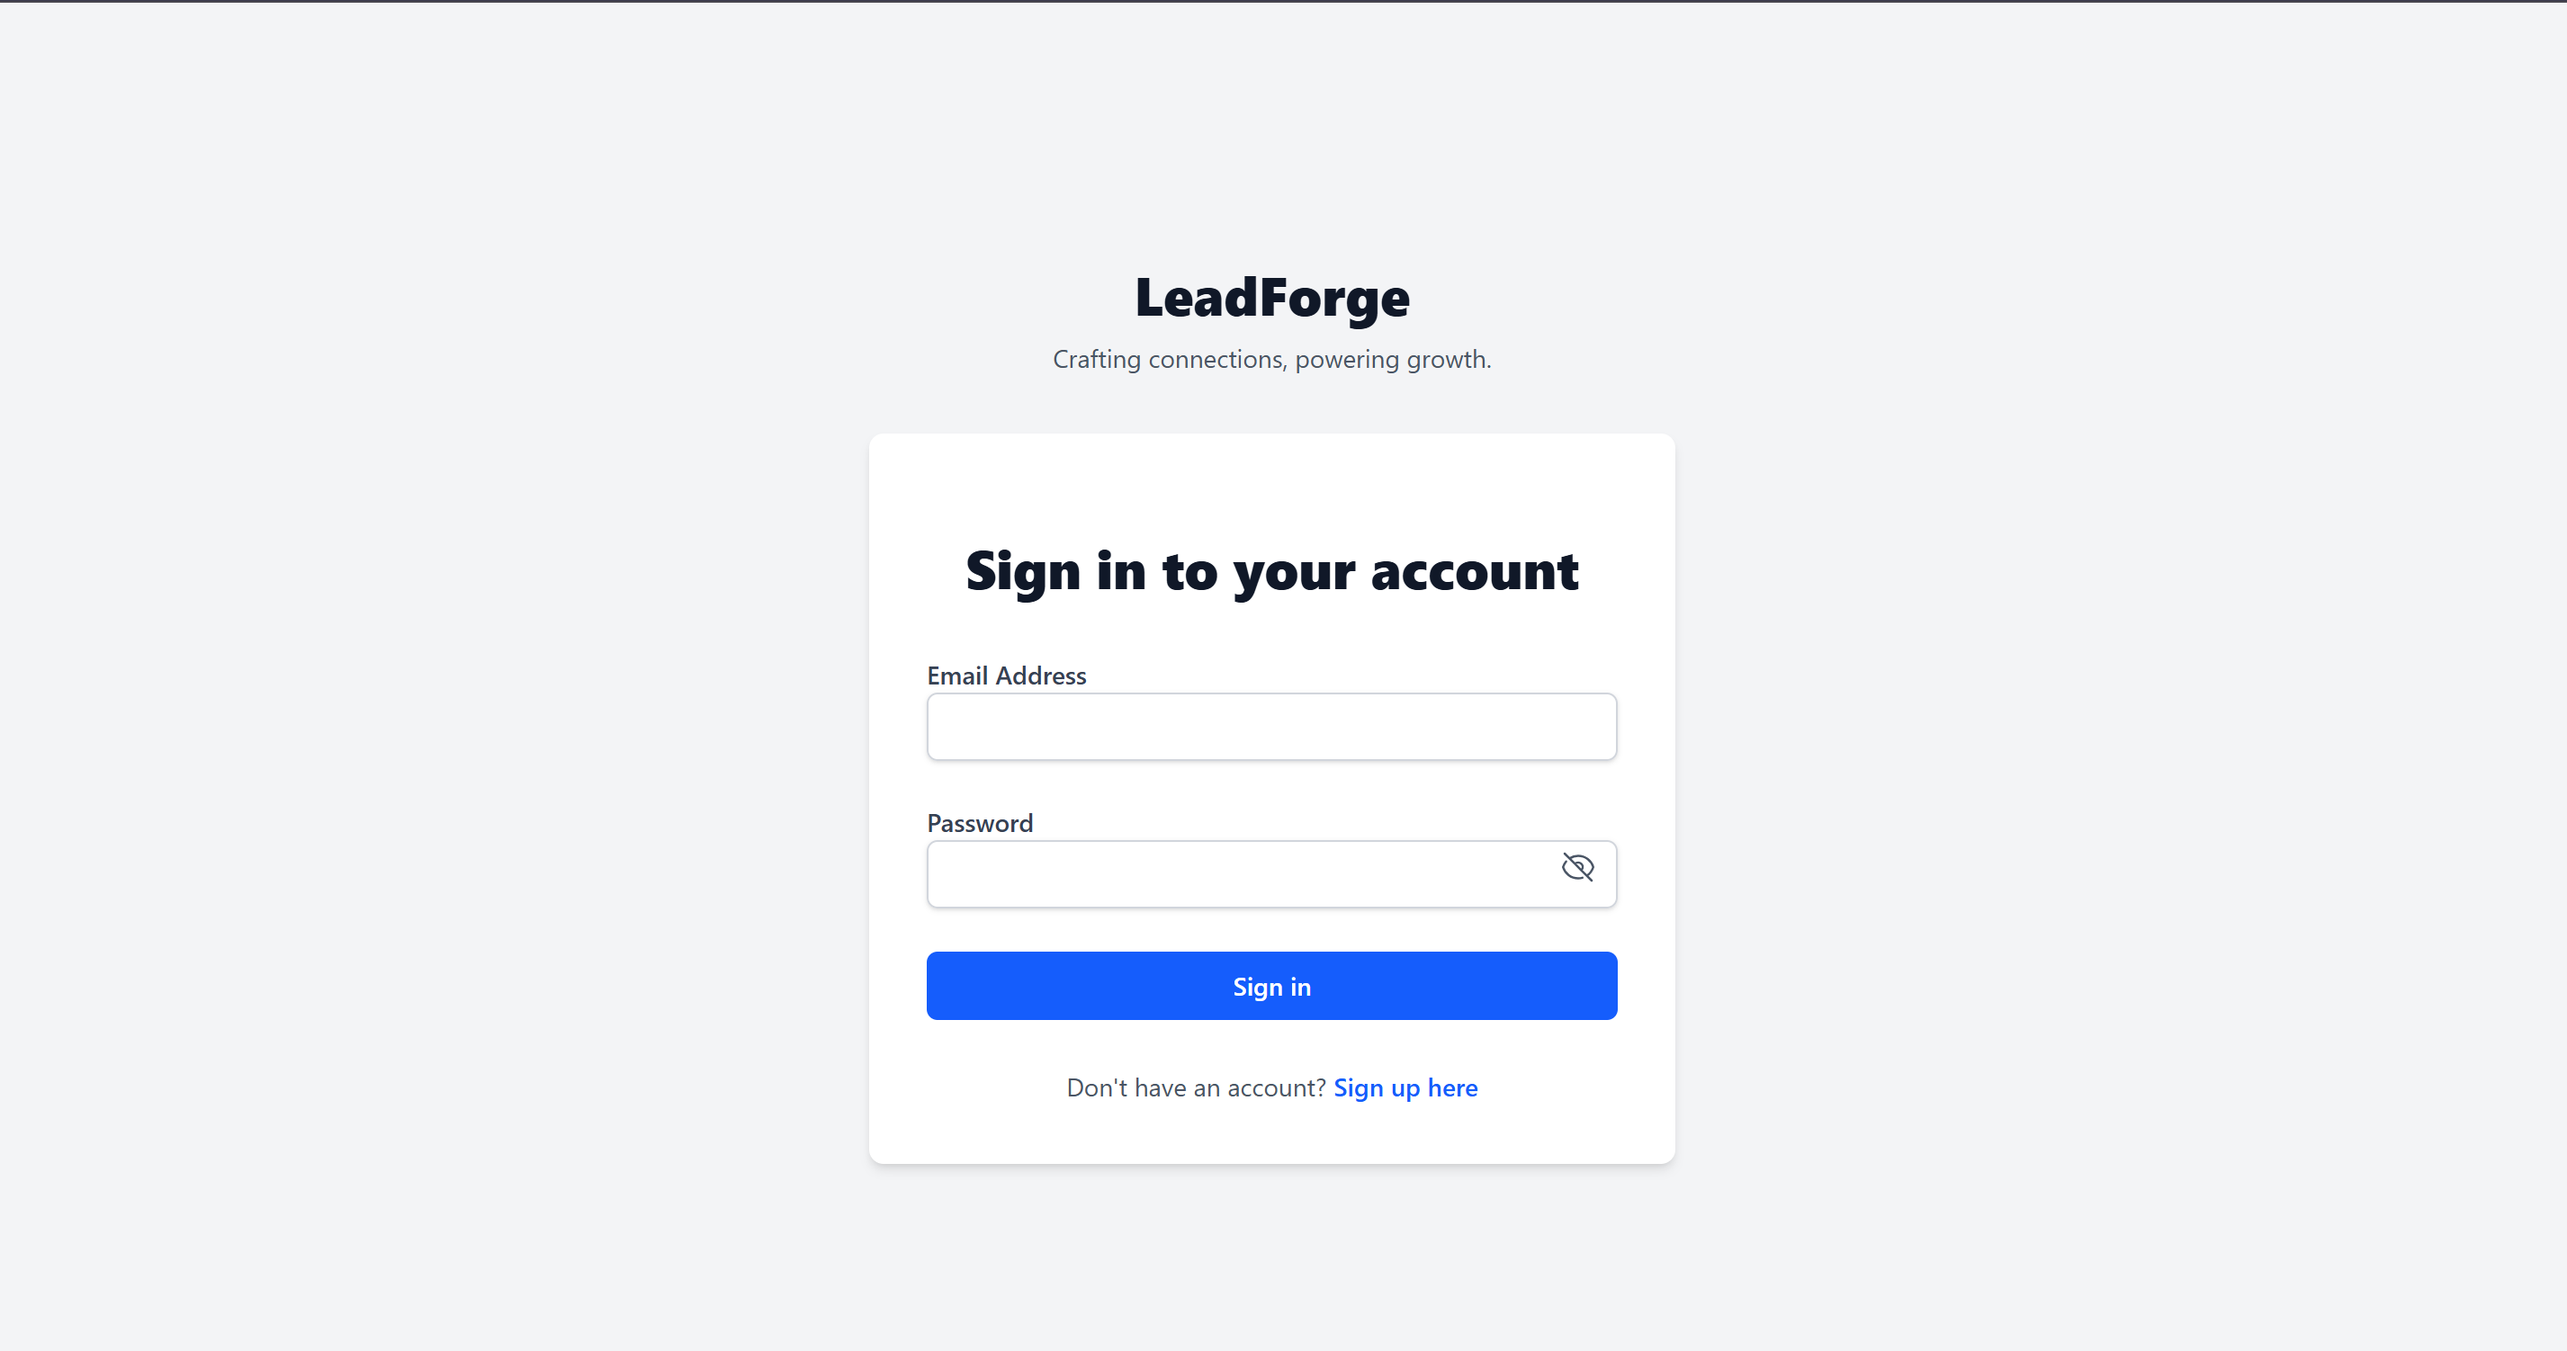
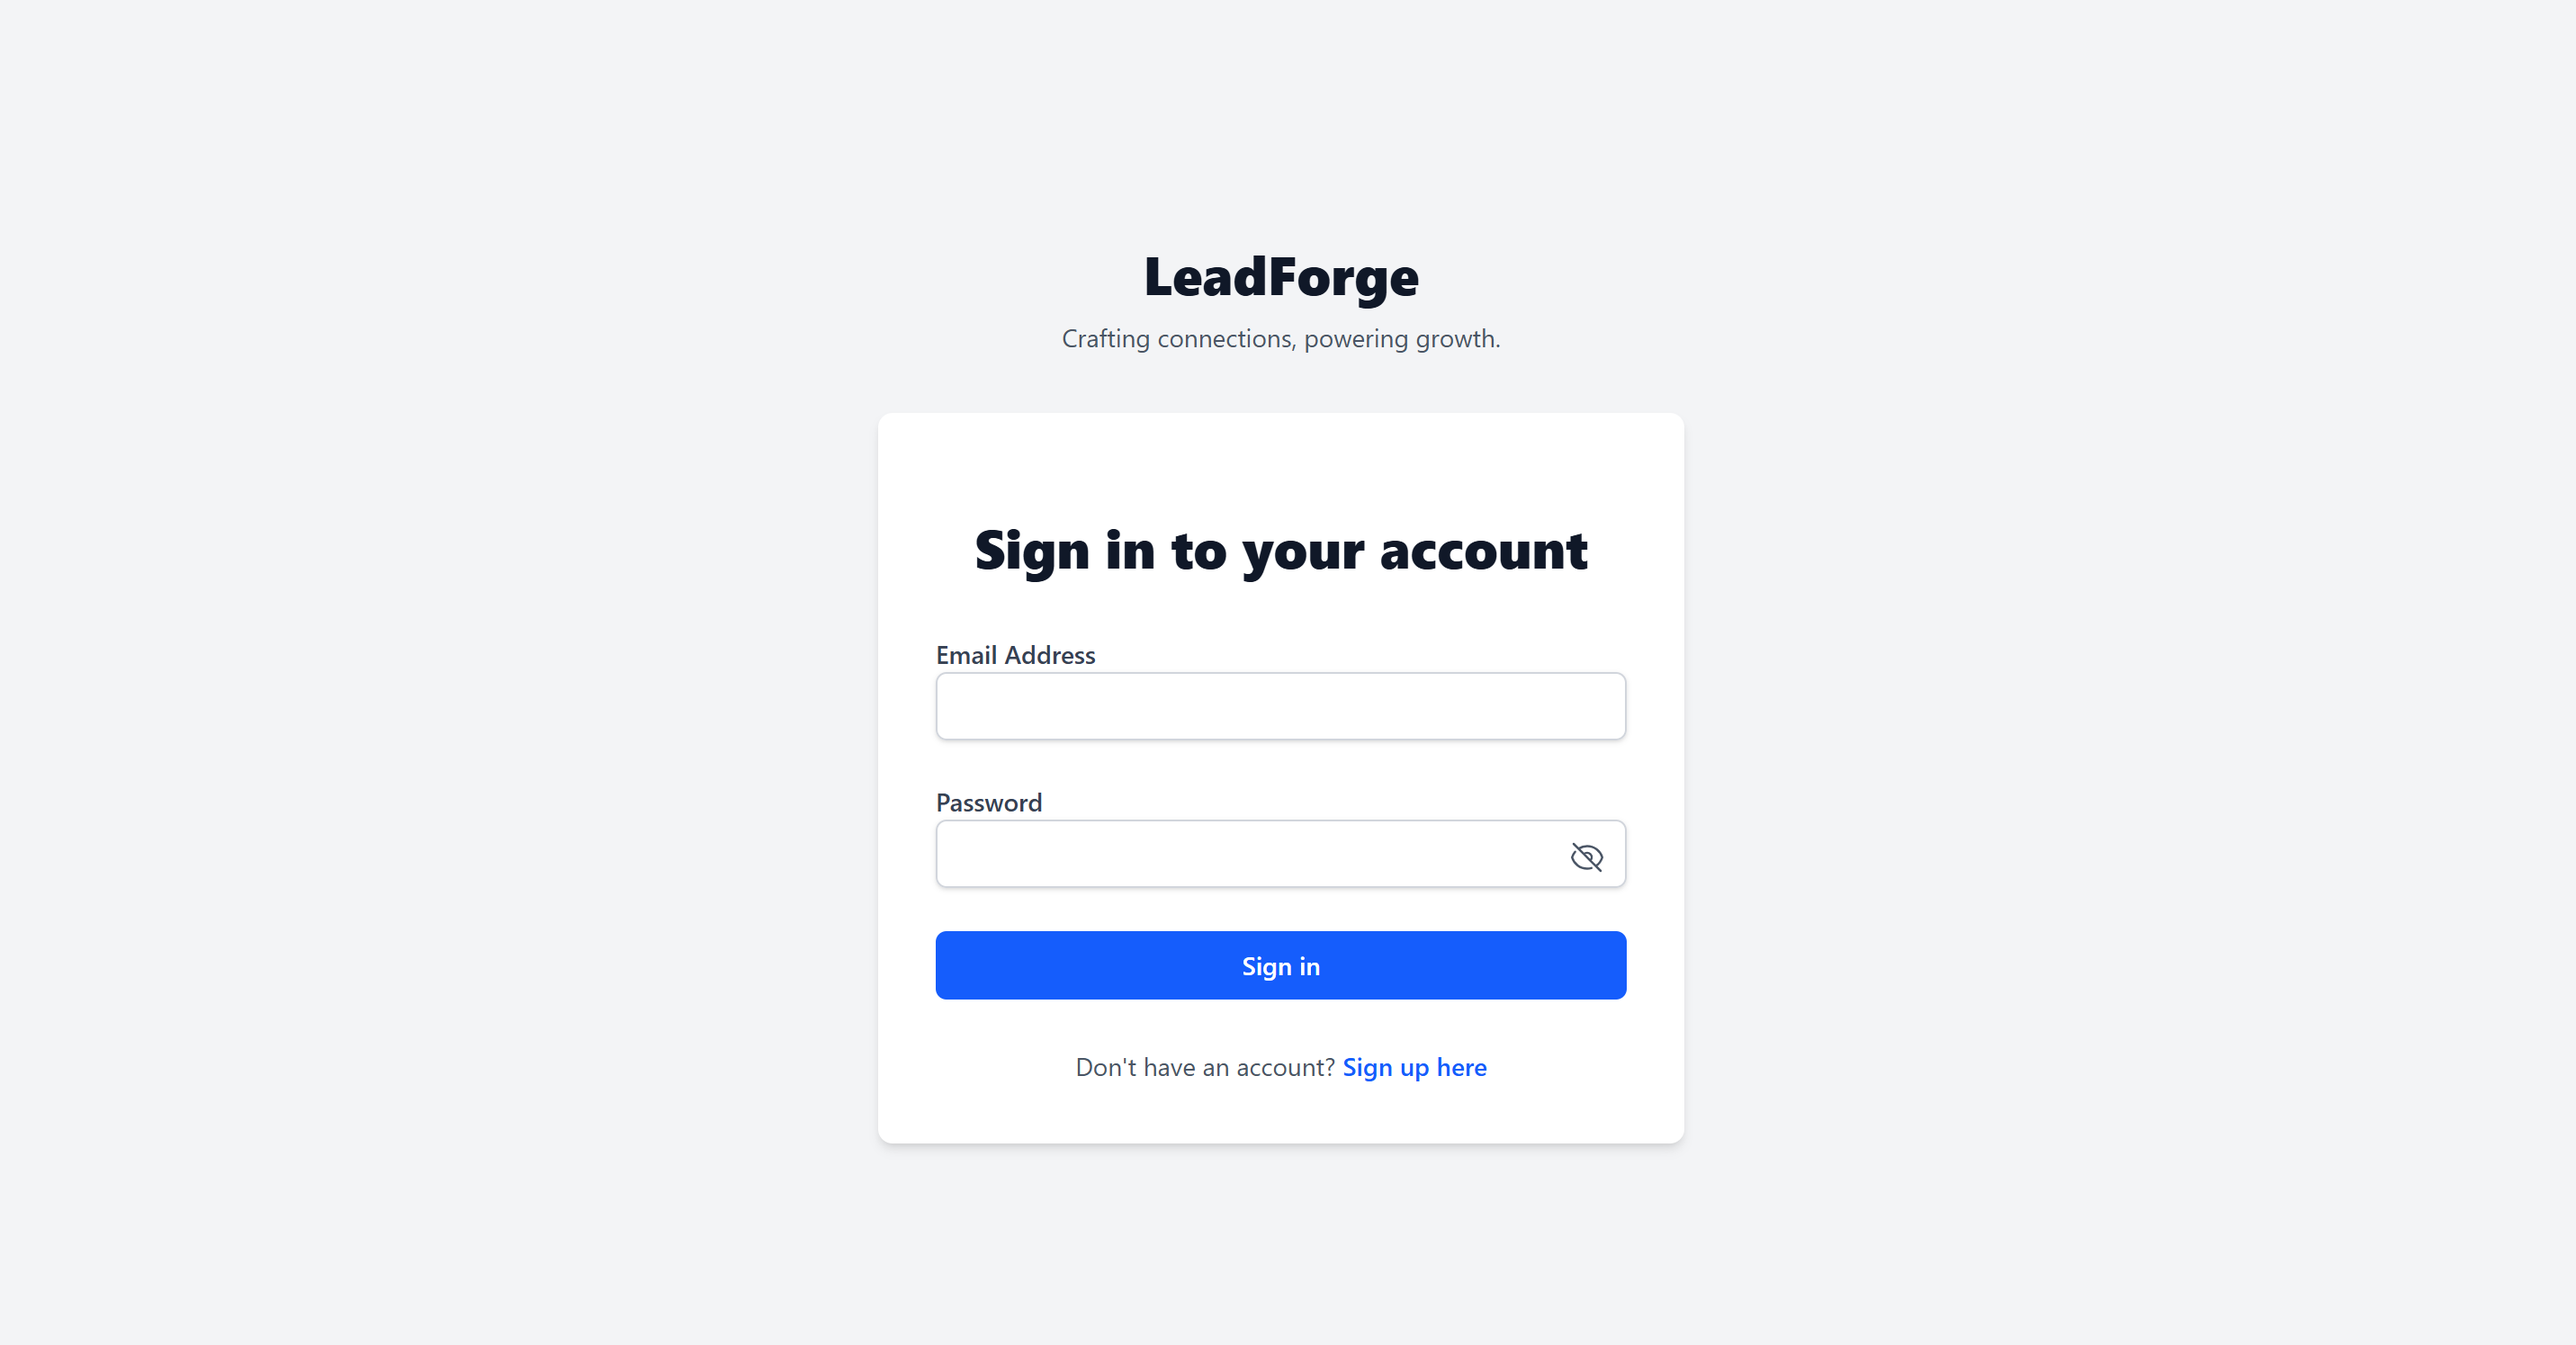
Updated Login/Register

diff --git a/client/src/components/Auth/Login.jsx b/client/src/components/Auth/Login.jsx
@@ -69,39 +69,41 @@ const Login = ({ onLogin }) => {
               onChange={handleChange}
             />
           </div>
-          <div className="relative">
+
+          <div>
             <label
               htmlFor="password"
               className="block text-sm font-medium text-gray-700"
             >
               Password
             </label>
+            <div className="relative">
+              <input
+                id="password"
+                name="password"
+                type={showPassword ? "text" : "password"} 
+                autoComplete="new-password"
+                required
+                minLength={6}
+                className="appearance-none block w-full px-3 py-2 pr-10 border border-gray-300 rounded-md shadow-sm placeholder-gray-400 focus:outline-none focus:ring-blue-500 focus:border-blue-500 sm:text-sm"
+                value={formData.password}
+                onChange={handleChange}
+              />
 
-            <input
-              id="password"
-              name="password"
-              type={showPassword ? "text" : "password"}
-              autoComplete="new-password"
-              required
-              minLength={6}
-              className="appearance-none block w-full px-3 py-2 pr-10 border border-gray-300 rounded-md shadow-sm placeholder-gray-400 focus:outline-none focus:ring-blue-500 focus:border-blue-500 sm:text-sm"
-              value={formData.password}
-              onChange={handleChange}
-            />
-
-            <button
-              type="button"
-              onClick={() => setShowPassword(!showPassword)}
-              className="absolute inset-y-0 right-0 flex items-center pr-3 text-gray-600 translate-y-1.5  "
-              tabIndex={-1}
-              aria-label={showPassword ? "Hide password" : "Show password"}
-            >
-              {showPassword ? (
-                <EyeIcon className="h-5 w-5" />
-              ) : (
-                <EyeSlashIcon className="h-5 w-5" />
-              )}
-            </button>
+              <button
+                type="button"
+                onClick={() => setShowPassword(!showPassword)}
+                className="absolute inset-y-0 right-0 flex items-center pr-3 text-gray-600 hover:text-gray-800 focus:outline-none translate-y-0.5"
+                tabIndex={-1}
+                aria-label={showPassword ? "Hide password" : "Show password"}
+              >
+                {showPassword ? (
+                  <EyeIcon className="h-5 w-5" />
+                ) : (
+                  <EyeSlashIcon className="h-5 w-5" />
+                )}
+              </button>
+            </div>
           </div>
 
           <div>

diff --git a/client/src/components/Auth/Register.jsx b/client/src/components/Auth/Register.jsx
@@ -2,6 +2,7 @@ import React, { useState } from "react";
 import { Link } from "react-router-dom";
 import axios from "axios";
 import toast from "react-hot-toast";
+import { EyeIcon, EyeSlashIcon } from "@heroicons/react/24/outline";
 
 const Register = ({ onRegister }) => {
   const [formData, setFormData] = useState({
@@ -11,7 +12,7 @@ const Register = ({ onRegister }) => {
     lastName: "",
   });
   const [loading, setLoading] = useState(false);
-
+  const [showPassword, setShowPassword] = useState(false);
   const handleChange = (e) => {
     setFormData({
       ...formData,
@@ -116,17 +117,32 @@ const Register = ({ onRegister }) => {
               >
                 Password
               </label>
-              <input
-                id="password"
-                name="password"
-                type="password"
-                autoComplete="new-password"
-                required
-                minLength={6}
-                className="appearance-none block w-full px-3 py-2 border border-gray-300 rounded-md shadow-sm placeholder-gray-400 focus:outline-none focus:ring-blue-500 focus:border-blue-500 sm:text-sm"
-                value={formData.password}
-                onChange={handleChange}
-              />
+              <div className="relative">
+                <input
+                  id="password"
+                  name="password"
+                  type={showPassword ? "text" : "password"} 
+                  autoComplete="new-password"
+                  required
+                  minLength={6}
+                  className="appearance-none block w-full px-3 py-2 border border-gray-300 rounded-md shadow-sm placeholder-gray-400 focus:outline-none focus:ring-blue-500 focus:border-blue-500 sm:text-sm pr-10"
+                  value={formData.password}
+                  onChange={handleChange}
+                />
+                <button
+                  type="button"
+                  onClick={() => setShowPassword(!showPassword)}
+                  className="absolute inset-y-0 right-0 flex items-center pr-3 text-gray-600 hover:text-gray-800 focus:outline-none translate-y-0.5"
+                  tabIndex={-1}
+                  aria-label={showPassword ? "Hide password" : "Show password"}
+                >
+                  {showPassword ? (
+                    <EyeIcon className="h-5 w-5" />
+                  ) : (
+                    <EyeSlashIcon className="h-5 w-5" />
+                  )}
+                </button>
+              </div>
               <p className="text-xs text-gray-500 mt-1">Minimum 6 characters</p>
             </div>
           </div>
